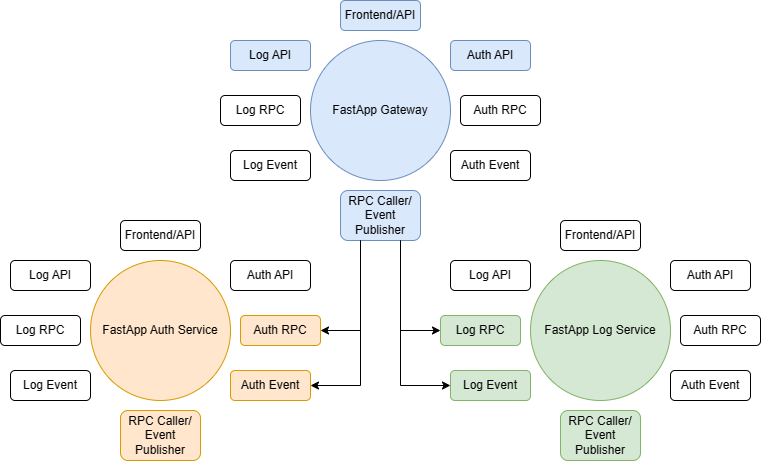
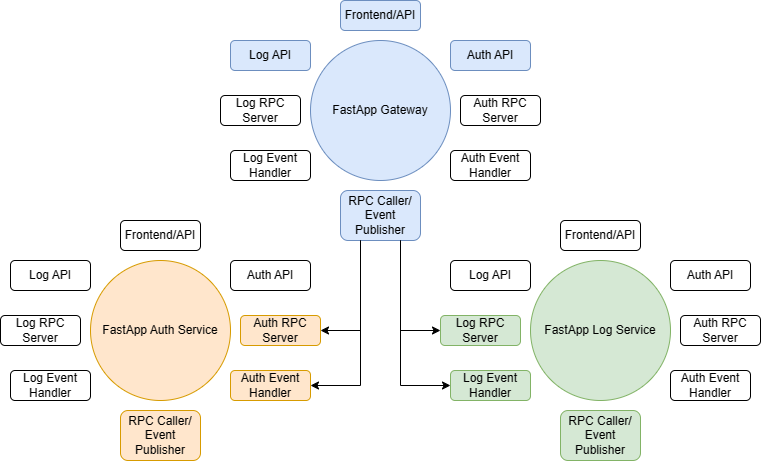
update version

diff --git a/src/zrb/builtin/generator/fastapp/template/_automate/snake_app_name/load_test.py b/src/zrb/builtin/generator/fastapp/template/_automate/snake_app_name/load_test.py
@@ -1,0 +1,91 @@
+from zrb import CmdTask, EnvFile, BoolInput, StrInput, IntInput, runner
+from zrb.builtin._group import project_group
+from ._common import CURRENT_DIR, RESOURCE_DIR
+import os
+
+###############################################################################
+# Constants
+###############################################################################
+
+LOAD_TEST_DIR = os.path.join(RESOURCE_DIR, 'loadtest')
+LOAD_TEST_TEMPLATE_ENV_FILE_NAME = os.path.join(RESOURCE_DIR, 'template.env')
+
+###############################################################################
+# Input Definitions
+###############################################################################
+
+headless_input = BoolInput(
+    name='kebab-app-name-load-test-headless',
+    default=True,
+    description='Load test UI headless',
+    prompt='Load test UI headless (if True, there will be no UI)',
+)
+
+web_port_input = IntInput(
+    name='kebab-app-name-load-test-port',
+    default=8089,
+    description='Load test UI web port',
+    prompt='Load test UI web port (Only works if headless is False)',
+)
+
+users_input = IntInput(
+    name='kebab-app-name-load-test-users',
+    default=10,
+    description='Load test users',
+    prompt='Load test users',
+)
+
+spawn_rate_input = IntInput(
+    name='kebab-app-name-load-test-spawn-rate',
+    default=1,
+    description='Load test spawn rate',
+    prompt='Load test spawn rate',
+)
+
+url_input = StrInput(
+    name='kebab-app-name-load-test-url',
+    default='http://localhost:httpPort',
+    description='Load test url',
+    prompt='Load test url',
+)
+
+###############################################################################
+# Env file Definitions
+###############################################################################
+
+load_test_env_file = EnvFile(
+    env_file=LOAD_TEST_TEMPLATE_ENV_FILE_NAME, prefix='LOAD_TEST_ENV_PREFIX'
+)
+
+###############################################################################
+# Task Definitions
+###############################################################################
+
+prepare_snake_app_name_load_test = CmdTask(
+    icon='🚤',
+    name='prepare-kebab-app-name-load-test',
+    description='Prepare load test for human readable app name',
+    group=project_group,
+    cwd=LOAD_TEST_DIR,
+    cmd_path=os.path.join(CURRENT_DIR, 'cmd', 'prepare-load-test.sh'),
+)
+runner.register(prepare_snake_app_name_load_test)
+
+load_test_snake_app_name_load_test = CmdTask(
+    icon='🧪',
+    name='load-test-kebab-app-name',
+    description='Load test human readable app name',
+    group=project_group,
+    upstreams=[prepare_snake_app_name_load_test],
+    inputs=[
+        headless_input,
+        web_port_input,
+        users_input,
+        spawn_rate_input,
+        url_input,
+    ],
+    cwd=LOAD_TEST_DIR,
+    env_files=[load_test_env_file],
+    cmd_path=os.path.join(CURRENT_DIR, 'cmd', 'load-test.sh'),
+)
+runner.register(load_test_snake_app_name_load_test)

diff --git a/src/zrb/builtin/generator/fastapp/template/src/kebab-app-name/loadtest/locustfile.py b/src/zrb/builtin/generator/fastapp/template/src/kebab-app-name/loadtest/locustfile.py
@@ -1,0 +1,28 @@
+from locust import HttpUser, task, between
+import os
+
+access_token_cookie_key = os.getenv(
+    'PUBLIC_AUTH_ACCESS_TOKEN_COOKIE_KEY', 'access_token'
+)
+admin_username = os.getenv('APP_AUTH_ADMIN_USERNAME', 'root')
+admin_password = os.getenv('APP_AUTH_ADMIN_PASSWORD', 'toor')
+
+
+class QuickstartUser(HttpUser):
+    wait_time = between(1, 5)
+
+    @task
+    def hello_world(self):
+        self.client.get('/api/v1/auth/permissions')
+
+    def on_start(self):
+        login_response = self.client.post(
+            '/api/v1/auth/login',
+            json={
+                'identity': admin_username,
+                'password': admin_password
+            }
+        )
+        login_response_json = login_response.json()
+        access_token = login_response_json.get('access_token')
+        self.client.cookies.set(access_token_cookie_key, access_token)

diff --git a/src/zrb/builtin/generator/fastapp/template/_automate/snake_app_name/test.py b/src/zrb/builtin/generator/fastapp/template/_automate/snake_app_name/test.py
@@ -21,7 +21,9 @@ app_env_file = EnvFile(
 
 
 @python_task(
+    icon='🧪',
     name='remove-kebab-app-name-test-db',
+    group=project_group,
     runner=runner
 )
 def remove_snake_app_name_test_db(*args, **kwargs):
@@ -33,6 +35,7 @@ def remove_snake_app_name_test_db(*args, **kwargs):
 test_snake_app_name = CmdTask(
     icon='🚤',
     name='test-kebab-app-name',
+    group=project_group,
     inputs=[
         StrInput(
             name='kebab-app-name-test',
@@ -46,7 +49,6 @@ test_snake_app_name = CmdTask(
         prepare_snake_app_name_backend,
         remove_snake_app_name_test_db,
     ],
-    group=project_group,
     cwd=RESOURCE_DIR,
     env_files=[app_env_file],
     envs=[

diff --git a/src/zrb/builtin/generator/fastapp/add.py b/src/zrb/builtin/generator/fastapp/add.py
@@ -97,6 +97,10 @@ register_test_app_module = create_register_app_module(
     module='test', upstreams=[register_deployment_app_module]
 )
 
+register_load_test_app_module = create_register_app_module(
+    module='load_test', upstreams=[register_test_app_module]
+)
+
 add_project_task = create_add_project_automation_task(
     upstreams=[copy_resource]
 )
@@ -183,6 +187,7 @@ register_destroy = create_register_app_task(
         register_image_app_module,
         register_deployment_app_module,
         register_test_app_module,
+        register_load_test_app_module,
         register_start,
         register_start_container,
         register_stop_container,

diff --git a/src/zrb/builtin/generator/fastapp/template/_automate/snake_app_name/local_microservices.py b/src/zrb/builtin/generator/fastapp/template/_automate/snake_app_name/local_microservices.py
@@ -4,7 +4,8 @@ from zrb.helper.util import to_snake_case, to_kebab_case
 from ._common import (
     CURRENT_DIR, APP_DIR, SKIP_LOCAL_MICROSERVICES_EXECUTION,
     APP_TEMPLATE_ENV_FILE_NAME, MODULES,
-    local_app_broker_type_env, local_input, run_mode_input, host_input, https_input
+    local_app_broker_type_env, local_input, run_mode_input, host_input,
+    https_input
 )
 import os
 
@@ -75,6 +76,5 @@ def get_start_microservices(upstreams: List[Task]) -> List[Task]:
                 service_checker,
             ]
         )
-        runner.register(start_service)
         start_microservices.append(start_service)
     return start_microservices

diff --git a/src/zrb/builtin/generator/fastapp/template/_automate/snake_app_name/local.py b/src/zrb/builtin/generator/fastapp/template/_automate/snake_app_name/local.py
@@ -11,7 +11,7 @@ from ._common import (
     local_input, run_mode_input, host_input, https_input,
     local_app_port_env, local_app_broker_type_env
 )
-from .image import build_snake_app_name_image, image_input
+from .image import image_input
 from .frontend import build_snake_app_name_frontend
 from .container import remove_snake_app_name_container
 from .local_microservices import get_start_microservices
@@ -153,7 +153,6 @@ start_snake_app_name_gateway = CmdTask(
         app_local_checker,
     ]
 )
-runner.register(start_snake_app_name_gateway)
 
 start_microservices = get_start_microservices(
     upstreams=[

diff --git a/src/zrb/builtin/generator/fastapp/template/src/kebab-app-name/src/module/auth/core/access_token/scheme.py b/src/zrb/builtin/generator/fastapp/template/src/kebab-app-name/src/module/auth/core/access_token/scheme.py
@@ -26,7 +26,7 @@ def create_oauth2_bearer_access_token_scheme(
     ) -> AccessTokenData:
         token: Optional[str] = await oauth2_scheme(request)
         if token is None:
-            request.cookies.get(token_cookie_key, None)
+            token = request.cookies.get(token_cookie_key, None)
         if token is None:
             return AccessTokenData(
                 user_id=guest_user.id,

diff --git a/src/zrb/builtin/generator/fastapp/template/src/kebab-app-name/docs/modular-monolith/README.md b/src/zrb/builtin/generator/fastapp/template/src/kebab-app-name/docs/modular-monolith/README.md
@@ -2,14 +2,119 @@
 
 # Modular Monolith
 
+PascalAppName has several features that you can activate/deactivate using environment variables. It also has some communication patterns like API, RPC, or Event.
+
 ![Modular monolith](images/fastapp.png)
+
+## Frontend, API, Event, and RPC
+
+First, you have Frontend and API.
+
+Frontend is intended to be accessed by users. It has buttons, links, and a nice user interface. This user interface usually needs to access API endpoints to translate user action into server requests.
+
+Aside from the Frontend, the API endpoints are also accessible by external systems. You might have third-party client apps, webhook, or even IOT devices.
+
+In PascalAppName, most API requests will be translated into events/RPC calls. The difference between events and RPC calls is as follows:
+
+- Event
+    - Once an event is fired, event handlers will pick up the message.
+    - PascalAppName will not wait for the process to be completed. It just fires the event, lets the event handler handles the message, and continues with other processes.
+    - You usually use events if you don't need an immediate response. For example:
+        - You train a machine learning model. The process can take hours or even days. You just want to trigger the training, and you don't need immediate results. Once the training has been completed, you can let the event handler send a notification email to the user.
+        - You deal with warehouse fulfillment progress. The fulfillment might take a very long time, you can't make sure that the user will get immediate feedback.
+- RPC (Remote procedure call)
+    - Once an RPC call is fired, RPC Server will pick up the message.
+    - PascalAppName will wait for the RPC Server to return the result before continuing with other processes.
+    - You usually use RPC calls if you need an immediate response. For example:
+        - You want to fetch user data from the database. You can't give any HTTP Response before you get the result from the database
+        - You want to update a product description. You can only return HTTP Response to the user once the process is completed (or failed).
+
+## Feature flags
+
+The following are some feature flags to activate/deactivate the features:
+
+- Frontend:
+    - `ENV_PREFIX_APP_ENABLE_FRONTEND=true`
+- API:
+    - `ENV_PREFIX_APP_ENABLE_API=true`
+- RPC Caller/Event Publisher: This feature is always activated
+- Auth module:
+    - Auth API:
+        - `ENV_PREFIX_APP_ENABLE_AUTH_MODULE=true`
+        - `ENV_PREFIX_APP_ENABLE_API=true`
+    - Auth RPC Server:
+        - `ENV_PREFIX_APP_ENABLE_AUTH_MODULE=true`
+        - `ENV_PREFIX_APP_ENABLE_RPC_SERVER=true`
+    - Auth Event Handler:
+        - `ENV_PREFIX_APP_ENABLE_AUTH_MODULE=true`
+        - `ENV_PREFIX_APP_ENABLE_EVENT_HANDLER=true`
+- Log module:
+    - Log API:
+        - `ENV_PREFIX_APP_ENABLE_LOG_MODULE=true`
+        - `ENV_PREFIX_APP_ENABLE_API=true`
+    - Log RPC Server:
+        - `ENV_PREFIX_APP_ENABLE_LOG_MODULE=true`
+        - `ENV_PREFIX_APP_ENABLE_RPC_SERVER=true`
+    - Log Event Handler:
+        - `ENV_PREFIX_APP_ENABLE_LOG_MODULE=true`
+        - `ENV_PREFIX_APP_ENABLE_EVENT_HANDLER=true`
+
+By activating/deactivating the feature flags, you can control PascalAppName's communication pattern. You can make it respond to all API requests, events, and RPC calls. Or you can make it respond to API requests but ignores RPC/Event calls.
+
 
 # PascalAppName as a monolith
 
+PascalAppName will behave like a monolith if you activate all the features.
+
 ![Monolith](images/fastapp-monolith.png)
+
+A Monolith handles everything. Compared to microservices, a monolith is easier to maintain/deploy.
+
+If you only have a single developer team, a monolith is much preferable.
+
+However, since everything run in a single application, a problem in any component can affect the whole system. For example, if your Auth RPC Server takes up a lot of CPU usage, you might not be able to handle the event log.
+
+Scaling a monolith application might also be challenging. The easiest way to scale up a monolith application is by using a more resourceful (and expensive) server. This probably won't be a good idea if your application receives spike requests once in a while. You will have to pay for the highest capacity all the time.
 
 # PascalAppName as a microservices
 
-![Monolith](images/fastapp-microservices.png)
+You can spawn multiple PascalAppName, each with different configurations. By doing so, you can have a distributed architecture where some of your applications are deployed on cheaper Virtual Machines (like [Spot Instances](https://docs.aws.amazon.com/AWSEC2/latest/UserGuide/using-spot-instances.html)).
+
+Furthermore, you can spawn more services if you encounter spiked requests. For example, there is a flash sale and you only need to spawn more services to handle sales orders. Once the flash sale ended, you can scale down your services.
+
+![Microservices](images/fastapp-microservices.png)
+
+Microservices are more difficult to deploy/maintain since you have multiple instances of your services.
+
+You will likely need different teams to handle each service.
+
+# Run PascalAppName as a Monolith or Microservices
+
+By using [Zrb](https://pypi.org/project/zrb), you will be able to run PascalAppName as either a Monolith or Microservices. You don't need to set the feature flags manually.
+
+```bash
+# Run PascalAppName as a monolith
+zrb project start-kebab-app-name --kebab-app-name-run-mode monolith
+
+# Run PascalAppName as a monolith inside a container
+zrb project start-kebab-app-name-container --kebab-app-name-run-mode monolith
+
+# Run PascalAppName as microservices
+zrb project start-kebab-app-name --kebab-app-name-run-mode microservices
+
+# Run PascalAppName as microservices inside containers
+zrb project start-kebab-app-name-container --kebab-app-name-run-mode microservices
+
+# Deploy PascalAppName to Kubernetes as a monolith
+zrb project deploy-kebab-app-name --kebab-app-name monolith
+
+# Deploy PascalAppName to Kubernetes as a microservices
+zrb project deploy-kebab-app-name --kebab-app-name microservices
+```
+
+Hopefully this will make your development/deployment process easier.
+
+You can run your application as a monolith in your local computer, and deploy it as microservices later.
+
 
 🔖 [Table of Contents](../README.md)

diff --git a/src/zrb/builtin/generator/fastapp/template/src/kebab-app-name/README.md b/src/zrb/builtin/generator/fastapp/template/src/kebab-app-name/README.md
@@ -12,6 +12,7 @@ The purpose of PascalAppName is to:
 - Give you a good experience while developing/testing things locally.
 - Assure you that your application is always ready to be deployed as microservices.
 
+You can learn more about PascalAppName's modular monolith concept in our [documentation](docs/modular-monolith/README.md).
 
 # Run PascalAppName as a monolith
 
@@ -54,6 +55,21 @@ You can change the default username and password by providing `ENV_PREFIX_APP_AU
 
 Furthermore, you can also visit `http://localhost:httpPort/docs` to access the API specification.
 
+# Deploying to Kubernetes
+
+To deploy PascalAppName to Kubernetes, you need to have [Pulumi](https://www.pulumi.com/) installed. You also need access to a container registry like [Docker Hub](https://hub.docker.com/) and to the Kubernetes cluster itself.
+
+The easiest way to set up Kubernetes on your local computer is by installing [Docker Desktop](https://www.docker.com/products/docker-desktop/). Once you installed Docker Desktop, you can go to `setting | Kubernetes` to enable your local Kubernetes cluster.
+
+Finally, you can invoke the following command:
+
+```bash
+# Deploy PascalAppName to Kubernetes as a monolith
+zrb project deploy-kebab-app-name --kebab-app-name monolith
+
+# Deploy PascalAppName to Kubernetes as a microservices
+zrb project deploy-kebab-app-name --kebab-app-name microservices
+```
 
 # Configuration
 
